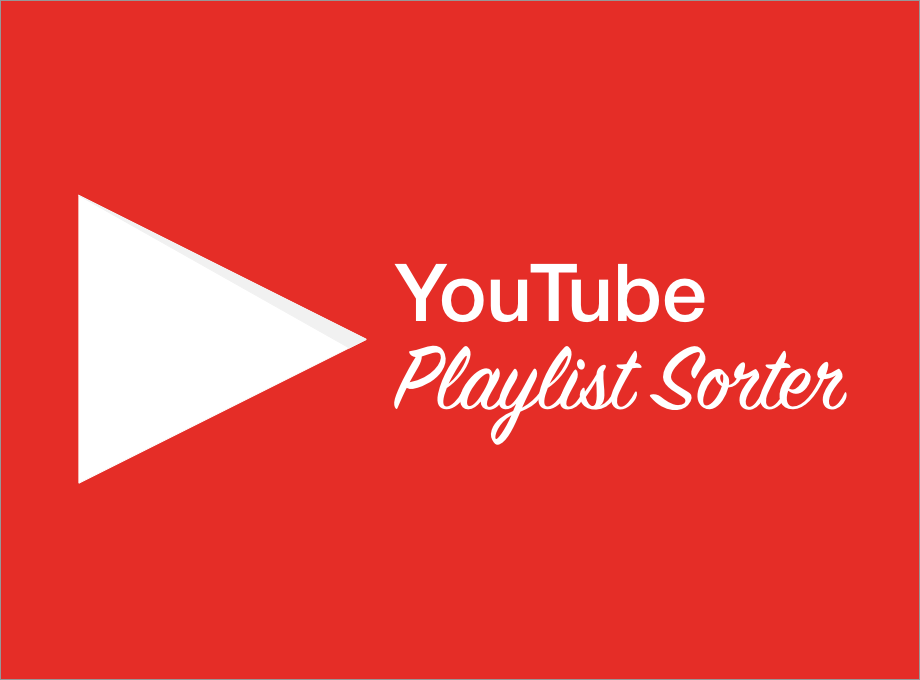
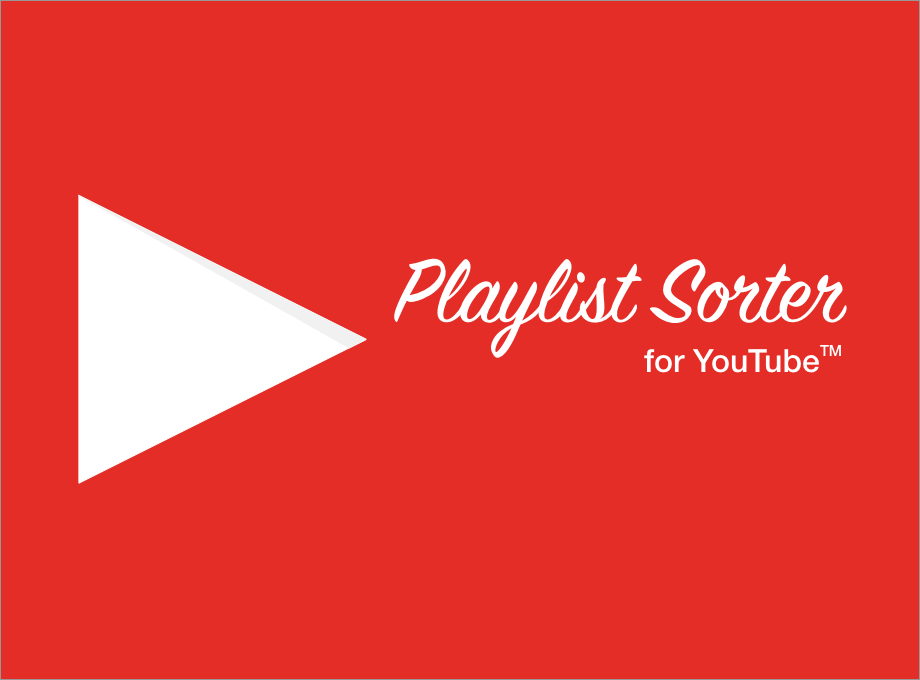
Use 'for youtube' terminology'

Changed region(s): [[0.4261, 0.3706, 0.913, 0.6485]]

diff --git a/src/login-panel.jsx b/src/login-panel.jsx
@@ -39,7 +39,7 @@ export default class LoginPanel extends React.Component {
         <div className="login">
           <div className="row">
             <div className="col-md-12">
-              <h1>YouTube Playlist Sorter</h1>
+              <h1>Playlist Sorter for YouTube&trade;</h1>
             </div>
           </div>
 

diff --git a/extension/app.html b/extension/app.html
@@ -2,7 +2,7 @@
 <html>
   <head>
     <meta charset="UTF-8">
-    <title>YouTube Playlist Sorter</title>
+    <title>Playlist Sorter for YouTube</title>
 
     <link rel="stylesheet" href="styles/bootstrap.min.css">
     <link rel="stylesheet" href="styles/bootstrap-theme.min.css">

diff --git a/README.md b/README.md
@@ -1,4 +1,4 @@
-# YouTube Playlist Sorter
+# Playlist Sorter for YouTube
 
 ## TODO
 
